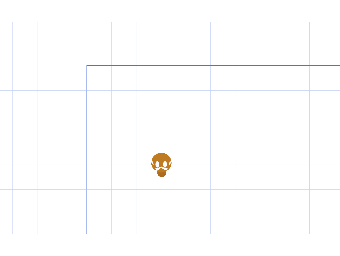
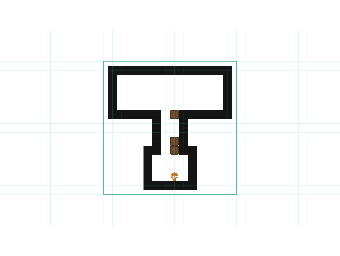
MMovable & MObstacle works

Changed region(s): [[0.0, 0.0938, 1.0, 0.9062], [0.1471, 0.2188, 0.1765, 0.2812]]

diff --git a/NOThInG/src/scripts/MMovable/code.js b/NOThInG/src/scripts/MMovable/code.js
@@ -1,0 +1,80 @@
+
+const MMovable = (() => {
+    const getMovableNear = (self, dir) => {
+        return utils.getNextDir(self, dir, 'MMovable');
+    };
+    const hasObstacleNear = (self, dir) => {
+        return utils.getNextDir(self, dir, 'MObstacle').length > 0;
+    };
+    const canGoDir = (self, dir) => {
+        if(hasObstacleNear(self, dir)) {
+            return false;
+        }
+        const arr = [];
+        for(const movableObject of getMovableNear(self, dir)) {
+            if(!canGoDir(movableObject, dir)) {
+                return false;
+            } else {
+                arr.push(movableObject);
+            }
+        }
+        return arr;
+    };
+    
+    return (self) => {
+        self.MMovable = {
+            goUp: () => {
+                const others = canGoDir(self, DIR.UP);
+                if(others) {
+                    for(const other of others) {
+                        other.MMovable.goUp();
+                    }
+                    self.y -= TILE_SIZE;
+                    
+                    return true;
+                } else {
+                    return false;
+                }
+            },
+            goDown: () => {
+                const others = canGoDir(self, DIR.DOWN);
+                if(others) {
+                    for(const other of others) {
+                        other.MMovable.goDown();
+                    }
+                    self.y += TILE_SIZE;
+                    
+                    return true;
+                } else {
+                    return false;
+                }
+            },
+            goLeft: () => {
+                const others = canGoDir(self, DIR.LEFT);
+                if(others) {
+                    for(const other of others) {
+                        other.MMovable.goLeft();
+                    }
+                    self.x -= TILE_SIZE;
+                    
+                    return true;
+                } else {
+                    return false;
+                }
+            },
+            goRight: () => {
+                const others = canGoDir(self, DIR.RIGHT);
+                if(others) {
+                    for(const other of others) {
+                        other.MMovable.goRight();
+                    }
+                    self.x += TILE_SIZE;
+                    
+                    return true;
+                } else {
+                    return false;
+                }
+            }
+        };
+    }
+})();

diff --git a/NOThInG/src/scripts/1_utils/code.js b/NOThInG/src/scripts/1_utils/code.js
@@ -1,0 +1,35 @@
+
+const utils = {
+    distance: (a, b) => {
+        return Math.abs(utils.dx(a, b)) + Math.abs(utils.dy(a, b));
+    },
+    dx: (a, b) => {
+        return Math.round((b.x - a.x) / TILE_SIZE);
+    },
+    dy: (a, b) => {
+        return Math.round((b.y - a.y) / TILE_SIZE);
+    },
+    isNextDir: (a, b, dir) => {
+        if(dir === DIR.UP) {
+            return utils.dx(a, b) === 0 && utils.dy(a, b) === -1;
+        } else if(dir === DIR.DOWN) {
+            return utils.dx(a, b) === 0 && utils.dy(a, b) === +1;
+        } else if(dir === DIR.LEFT) {
+            return utils.dx(a, b) === -1 && utils.dy(a, b) === 0;
+        } else if(dir === DIR.RIGHT) {
+            return utils.dx(a, b) === +1 && utils.dy(a, b) === 0;
+        } else {
+            throw 'bad dir: ' + dir;
+        }
+    },
+    getNextDir: (a, dir, prop) => {
+        const res = [];
+        for(const b of ct.room.children) {
+            if(utils.isNextDir(a, b, dir) && (prop === undefined || b[prop])) {
+                res.push(b);
+            }
+        }
+        
+        return res;
+    }
+};

diff --git a/NOThInG/src/types/Player/onstep.js b/NOThInG/src/types/Player/onstep.js
@@ -1,11 +1,17 @@
 if(ct.actions.Up.pressed) {
-    this.y -= TILE_SIZE;
+    if(this.MMovable.goUp()) {
+        self.lastMove = DIR.UP;
+    }
 } else if(ct.actions.Down.pressed) {
-    this.y += TILE_SIZE;
+    if(this.MMovable.goDown()) {
+        self.lastMove = DIR.UP;
+    }
 } else if(ct.actions.Left.pressed) {
-    this.x -= TILE_SIZE;
+    if(this.MMovable.goLeft()) {
+        self.lastMove = DIR.UP;
+    }
 } else if(ct.actions.Right.pressed) {
-    this.x += TILE_SIZE;
+    if(this.MMovable.goRight()) {
+        self.lastMove = DIR.UP;
+    }
 }
-
-this.move();

diff --git a/NOThInG/src/scripts/0_constants/code.js b/NOThInG/src/scripts/0_constants/code.js
@@ -1,0 +1,10 @@
+/* Use scripts to define frequent functions and import small libraries */
+
+const TILE_SIZE = 119;
+
+const DIR = {
+    UP: 'UP',
+    DOWN: 'DOWN',
+    LEFT: 'LEFT',
+    RIGHT: 'RIGHT'
+};

diff --git a/NOThInG/src/scripts/MObstacle/code.js b/NOThInG/src/scripts/MObstacle/code.js
@@ -1,0 +1,7 @@
+
+const MObstacle = (() => {
+
+    return (self) => {
+        self.MObstacle = {};
+    };
+})();

diff --git a/NOThInG/src/types/Wall/oncreate.js b/NOThInG/src/types/Wall/oncreate.js
@@ -1,1 +1,1 @@
-this.movable = true; // MMovable(this);
+MObstacle(this);
